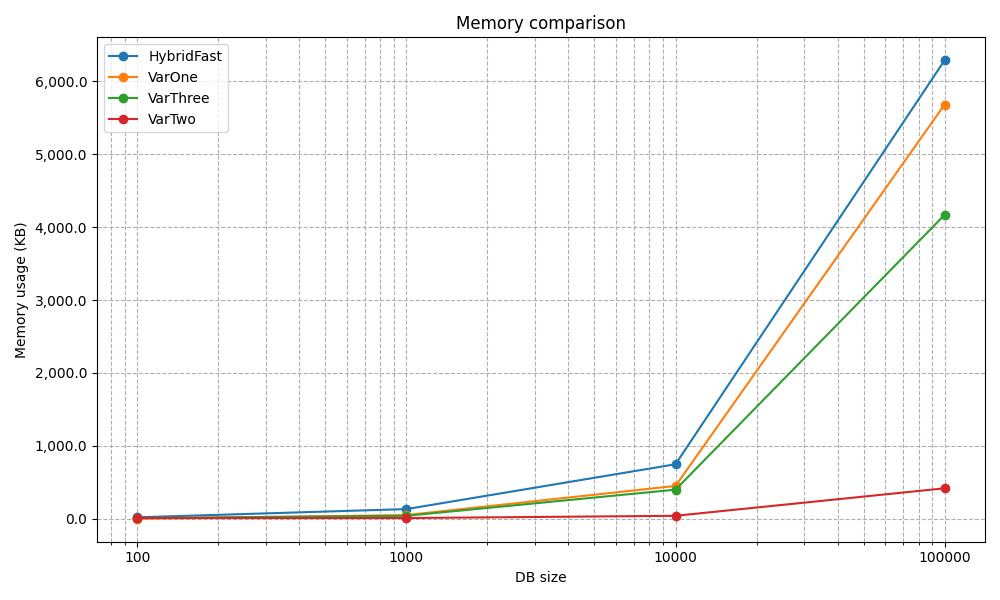
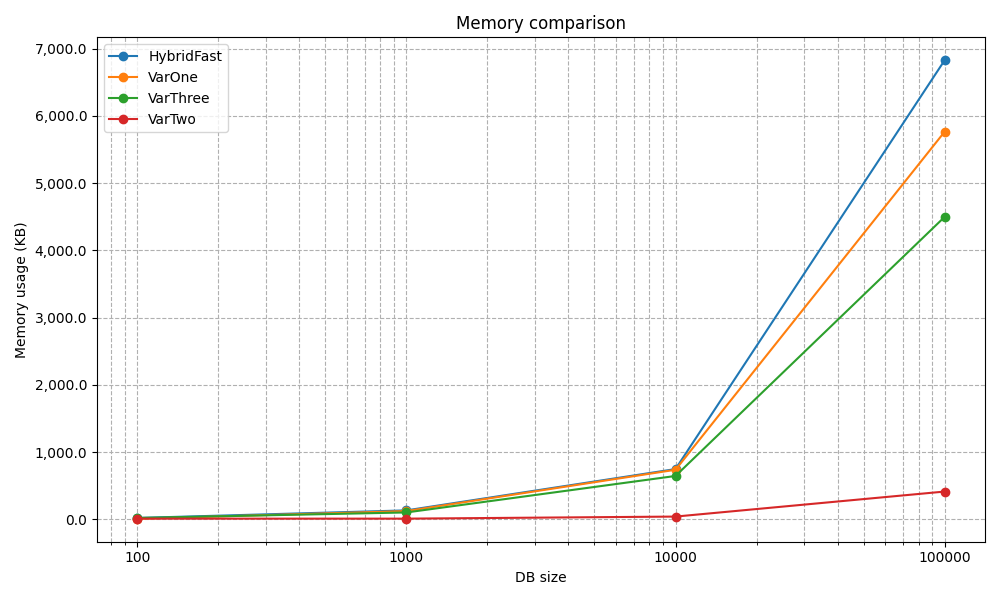
maybe done

diff --git a/DemoSecond.java b/DemoSecond.java
@@ -10,7 +10,6 @@ public class DemoSecond {
     static final int SUM = A + B + C;
     static FileWriter csv;
     
-    // Кількість об'єктів для вимірювання пам'яті
     static final int MEMORY_BENCHMARK_COUNT = 100;
 
     static void forceGC() {
@@ -44,7 +43,6 @@ public static void main(String[] args) throws IOException {
         System.out.println("===== Database size: " + size + " =====");
         List<Student> sublist = new ArrayList<>(fullList.subList(0, Math.min(size, fullList.size())));
 
-        // --- VarOne ---
         forceGC();
         long memBefore1 = measureCurrentMemory();
         Object[] arr1 = new Object[MEMORY_BENCHMARK_COUNT];
@@ -52,14 +50,12 @@ public static void main(String[] args) throws IOException {
             arr1[i] = new VarOne(sublist);
         }
         long memAfter1 = measureCurrentMemory();
-        // ЗМІНА ТУТ
         double mem1 = (memAfter1 - memBefore1) / (double)MEMORY_BENCHMARK_COUNT / 1024.0;
         long ops1 = runPerfTest("VarOne", arr1[0], emails); 
-        System.out.println("VarOne estimated memory (KB) = " + mem1 + "\n");
+        System.out.println("VarOne estimated memory = " + mem1 + "\n");
         csv.write(size + ",VarOne," + ops1 + "," + mem1 + "\n");
         arr1 = null;
 
-        // --- VarTwo ---
         forceGC();
         long memBefore2 = measureCurrentMemory();
         Object[] arr2 = new Object[MEMORY_BENCHMARK_COUNT];
@@ -67,14 +63,12 @@ public static void main(String[] args) throws IOException {
             arr2[i] = new VarTwo(sublist);
         }
         long memAfter2 = measureCurrentMemory();
-        // ЗМІНА ТУТ
         double mem2 = (memAfter2 - memBefore2) / (double)MEMORY_BENCHMARK_COUNT / 1024.0;
         long ops2 = runPerfTest("VarTwo", arr2[0], emails);
-        System.out.println("VarTwo estimated memory (KB) = " + mem2 + "\n");
+        System.out.println("VarTwo estimated memory = " + mem2 + "\n");
         csv.write(size + ",VarTwo," + ops2 + "," + mem2 + "\n");
         arr2 = null;
 
-        // --- VarThree ---
         forceGC();
         long memBefore3 = measureCurrentMemory();
         Object[] arr3 = new Object[MEMORY_BENCHMARK_COUNT];
@@ -82,14 +76,12 @@ public static void main(String[] args) throws IOException {
             arr3[i] = new VarThree(sublist);
         }
         long memAfter3 = measureCurrentMemory();
-        // ЗМІНА ТУТ
         double mem3 = (memAfter3 - memBefore3) / (double)MEMORY_BENCHMARK_COUNT / 1024.0;
         long ops3 = runPerfTest("VarThree", arr3[0], emails);
-        System.out.println("VarThree estimated memory (KB) = " + mem3 + "\n");
+        System.out.println("VarThree estimated memory = " + mem3 + "\n");
         csv.write(size + ",VarThree," + ops3 + "," + mem3 + "\n");
         arr3 = null;
 
-        // --- HybridFast ---
         forceGC();
         long memBefore4 = measureCurrentMemory();
         Object[] arr4 = new Object[MEMORY_BENCHMARK_COUNT];
@@ -97,10 +89,9 @@ public static void main(String[] args) throws IOException {
             arr4[i] = new HybridFast(sublist);
         }
         long memAfter4 = measureCurrentMemory();
-        // ЗМІНА ТУТ
         double mem4 = (memAfter4 - memBefore4) / (double)MEMORY_BENCHMARK_COUNT / 1024.0;
         long ops4 = runPerfTest("HybridFast", arr4[0], emails);
-        System.out.println("HybridFast estimated memory (KB) = " + mem4 + "\n");
+        System.out.println("HybridFast estimated memory = " + mem4 + "\n");
         csv.write(size + ",HybridFast," + ops4 + "," + mem4 + "\n");
         arr4 = null;
         
@@ -109,10 +100,6 @@ public static void main(String[] args) throws IOException {
 
     csv.close();
 }
-
-    /**
-     * Тестує ТІЛЬКИ ШВИДКІСТЬ (код не змінився)
-     */
     static long runPerfTest(String name, Object var, List<String> emails) throws IOException {
         Random r = new Random();
         long end = System.currentTimeMillis() + BENCHMARK_SECONDS * 1000;
@@ -140,7 +127,7 @@ public static void main(String[] args) throws IOException {
             }
             ops++;
         }
-        System.out.println(name + " ops in " + BENCHMARK_SECONDS + "sec = " + ops);
+        System.out.println(name + " operations in " + BENCHMARK_SECONDS + "seconds = " + ops);
         return ops;
     }
 }

diff --git a/VarOne.java b/VarOne.java
@@ -2,21 +2,39 @@ import java.util.ArrayList;
 import java.util.Comparator;
 import java.util.HashMap;
 import java.util.List;
+import java.util.PriorityQueue;
 
 public class VarOne {
     private HashMap<String, Student> studentMap = new HashMap<>();
+    private HashMap<String, double[]> studentTable = new HashMap<>();
 
 
     public VarOne(List<Student> students) {
         for (Student student: students) {
             studentMap.put(student.getEmail(), student);
+            if(!studentTable.containsKey(student.getGroup())){
+                studentTable.put(student.getGroup(), new double[]{student.getRating(), 1});
+            }
+            else {
+                double[] data = studentTable.get(student.getGroup());
+                data[0] += student.getRating();
+                data[1] += 1;
+            }
         }
     }
 
     public List<Student> firstHundred() {
-        List<Student> list = new ArrayList<>(studentMap.values());
-        list.sort(Comparator.comparingDouble(Student::getRating).reversed());
-        return list.subList(0, Math.min(100, list.size()));
+        PriorityQueue<Student> heap = new PriorityQueue<>(100, Comparator.comparingDouble(Student::getRating));
+        for (Student s : studentMap.values()) {
+            if (heap.size() < 100) heap.offer(s);
+            else if (s.getRating() > heap.peek().getRating()) {
+                heap.poll();
+                heap.offer(s);
+            }
+        }
+        List<Student> top = new ArrayList<>(heap);
+        top.sort(Comparator.comparingDouble(Student::getRating).reversed());
+        return top;
     }
 
     public void findByEmail(String email, double newRating) {
@@ -27,18 +45,6 @@ public class VarOne {
     }
     
     public String biggestGroupAverage(List<Student> students) {
-        HashMap<String, double[]> studentTable = new HashMap<>();
-        for(Student student: studentMap.values()) {
-            if(!studentTable.containsKey(student.getGroup())){
-                studentTable.put(student.getGroup(), new double[]{student.getRating(), 1});
-            }
-            else {
-                double[] data = studentTable.get(student.getGroup());
-                data[0] += student.getRating();
-                data[1] += 1;
-            }
-        }
-
         String bestGroup = null;
         double bestAverage = 0;
 

diff --git a/plot.py b/plot.py
@@ -1,26 +1,21 @@
 import matplotlib.pyplot as plt
-import matplotlib.ticker as ticker  # Імпортуємо ticker
+import matplotlib.ticker as ticker
 
 sizes = []
 variants = set()
-data = {}  # data[(variant,size)] = (ops,memory)
+data = {}
 
 try:
     with open("results.csv", "r") as f:
-        next(f)  # skip header
+        next(f)
         for line in f:
             line = line.strip()
-            if not line:  # skip empty lines
+            if not line:
                 continue
             size, variant, ops, mem = line.split(",")
             size = int(size)
             ops = int(ops)
-            # 
-            # --- ЗМІНА 1: Читаємо 'mem' як float, а не int ---
-            #
-            mem = float(mem) # <--- ОСЬ ЗМІНА (було int)
-            #
-            #
+            mem = float(mem)
             sizes.append(size)
             variants.add(variant)
             data[(variant, size)] = (ops, mem)
@@ -35,8 +30,6 @@ except Exception as e:
 sizes = sorted(list(set(sizes)))
 variants = sorted(list(variants))
 
-# --- OPS graph ---
-# (Тут нічого не змінилося)
 plt.figure(figsize=(10, 6))
 for v in variants:
     xs = []
@@ -65,8 +58,6 @@ plt.tight_layout()
 plt.savefig("ops_graph.png")
 print("OPS graph saved as ops_graph.png")
 
-
-# --- MEMORY graph ---
 plt.figure(figsize=(10, 6))
 for v in variants:
     xs = []
@@ -79,21 +70,15 @@ for v in variants:
         plt.plot(xs, ys, marker='o', label=v)
 
 plt.xscale("log")
-# Y scale тут лінійна
 ax = plt.gca()
 ax.xaxis.set_major_formatter(ticker.ScalarFormatter())
 ax.xaxis.set_minor_formatter(ticker.NullFormatter())
 plt.xticks(sizes)
 
-#
-# --- ЗМІНА 2: Оновлюємо форматер осі Y, щоб показувати 1 десятковий знак ---
-#
-ax.yaxis.set_major_formatter(ticker.FuncFormatter(lambda y, _: '{:,.1f}'.format(y))) # <--- ЗМІНА (було .0f)
-#
-#
+ax.yaxis.set_major_formatter(ticker.FuncFormatter(lambda y, _: '{:,.1f}'.format(y)))
 
 plt.xlabel("DB size")
-plt.ylabel("Memory usage (KB)")
+plt.ylabel("Memory usage")
 plt.title("Memory comparison")
 plt.grid(True, which="both", ls="--")
 plt.legend()

diff --git a/VarThree.java b/VarThree.java
@@ -1,15 +1,25 @@
 import java.util.ArrayList;
 import java.util.Comparator;
-import java.util.HashMap;
 import java.util.List;
+import java.util.TreeMap;
 import java.util.TreeSet;
 
 public class VarThree {
     private TreeSet<Student> students;
+    private TreeMap<String, double[]> studentTable = new TreeMap<>();
 
     public VarThree(List<Student> studentList) {
         this.students = new TreeSet<>(Comparator.comparingDouble(Student::getRating).reversed().thenComparing(Student::getEmail));
-        this.students.addAll(studentList);
+        for(Student student : students) {
+            students.add(student);
+            if(!studentTable.containsKey(student.getGroup())) {
+                studentTable.put(student.getGroup(), new double[]{student.getRating(), 1});
+            } else {
+                double[] data = studentTable.get(student.getGroup());
+                data[0] += student.getRating();
+                data[1] += 1;
+            }
+        }
     }
 
     public List<Student> firstHundred() {
@@ -41,21 +51,14 @@ public class VarThree {
 
 
     public String biggestGroupAverage() {
-        HashMap<String, Double> sumMap = new java.util.HashMap<>();
-        HashMap<String, Integer> countMap = new java.util.HashMap<>();
-
-        for (Student student : students) {
-            sumMap.put(student.getGroup(), sumMap.getOrDefault(student.getGroup(), 0.0) + student.getRating());
-            countMap.put(student.getGroup(), countMap.getOrDefault(student.getGroup(), 0) + 1);
-        }
-
         String bestGroup = null;
         double bestAverage = 0;
 
-        for (String group : sumMap.keySet()) {
-            double avg = sumMap.get(group) / countMap.get(group);
-            if (avg > bestAverage) {
-                bestAverage = avg;
+        for(String group : studentTable.keySet()) {
+            double[] data = studentTable.get(group);
+            double average = data[0] / data[1];
+            if(average > bestAverage) {
+                bestAverage = average;
                 bestGroup = group;
             }
         }

diff --git a/HybridFast.java b/HybridFast.java
@@ -1,9 +1,9 @@
 import java.util.*;
 
 public class HybridFast {
-    private ArrayList<Student> students;           // для ітерацій
-    private HashMap<String, Student> emailMap;     // для швидкого пошуку
-    private HashMap<String, double[]> groupMap;    // для підрахунку середніх рейтинґів
+    private ArrayList<Student> students;
+    private HashMap<String, Student> emailMap;
+    private HashMap<String, double[]> groupMap;
 
     public HybridFast(List<Student> list) {
         students = new ArrayList<>(list);
@@ -13,12 +13,11 @@ public class HybridFast {
             emailMap.put(s.getEmail(), s);
             groupMap.putIfAbsent(s.getGroup(), new double[]{0.0, 0.0});
             double[] data = groupMap.get(s.getGroup());
-            data[0] += s.getRating(); // сума рейтингу
-            data[1] += 1;             // кількість студентів
+            data[0] += s.getRating();
+            data[1] += 1;
         }
     }
 
-    // --- Топ-100 студентів за рейтингом ---
     public List<Student> firstHundred() {
         PriorityQueue<Student> heap = new PriorityQueue<>(100, Comparator.comparingDouble(Student::getRating));
         for (Student s : students) {
@@ -33,18 +32,15 @@ public class HybridFast {
         return top;
     }
 
-    // --- Зміна рейтингу студента за email ---
     public void findByEmail(String email, double newRating) {
         Student s = emailMap.get(email);
         if (s != null) {
-            // оновлення середньої по групі
             double[] data = groupMap.get(s.getGroup());
             data[0] += (newRating - s.getRating());
             s.setRating(newRating);
         }
     }
 
-    // --- Група з найбільшим середнім рейтингом ---
     public String biggestGroupAverage() {
         String bestGroup = null;
         double bestAvg = 0;

diff --git a/RadixSort.java b/RadixSort.java
@@ -9,18 +9,15 @@ public class RadixSort {
         int[] count = new int[maxKey + 1];
         Student[] output = new Student[list.size()];
 
-        // count
         for (Student s : list) {
             int key = s.getBirthMonth() * 100 + s.getBirthDay();
             count[key]++;
         }
 
-        // prefix sums
         for (int i = 1; i < count.length; i++) {
             count[i] += count[i - 1];
         }
 
-        // build output (reverse = stable)
         for (int i = list.size() - 1; i >= 0; i--) {
             Student s = list.get(i);
             int key = s.getBirthMonth() * 100 + s.getBirthDay();

diff --git a/Demo.java b/Demo.java
@@ -10,14 +10,12 @@ public class Demo {
 
         List<Student> list2 = new ArrayList<>(original);
 
-        // --- STANDARD SORT ---
         long start1 = System.currentTimeMillis();
         StandartSort stdSort = new StandartSort(list1);
         long end1 = System.currentTimeMillis();
         StandartSort.save(list1, "standart_sorted_students.csv");
         long timeStandard = end1 - start1;
 
-        // --- BST SORT ---
         long start2 = System.currentTimeMillis();
         List<Student> radixSorted = RadixSort.sort(list2);
         long end2 = System.currentTimeMillis();
